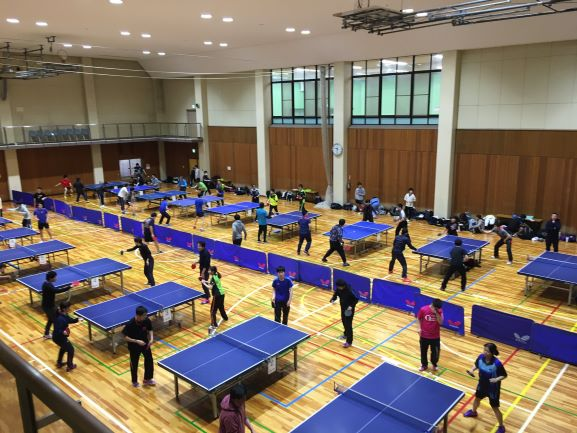
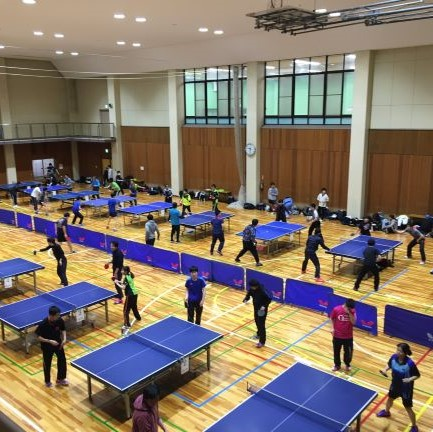
haruhara commit

diff --git a/src/index.html b/src/index.html
@@ -74,7 +74,7 @@
                   </div>
                   <div class="event">
                       <div class="event-icon">
-                          <img src="img/不明/top_douga.jpg">
+                          <img src="img/不明/top_douga - コピー.jpg">
                           <p>
                             <a href="#">イベントの動画</a>
                           </p>
